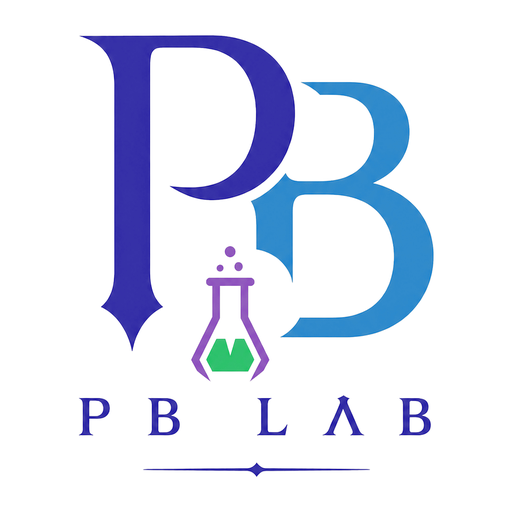
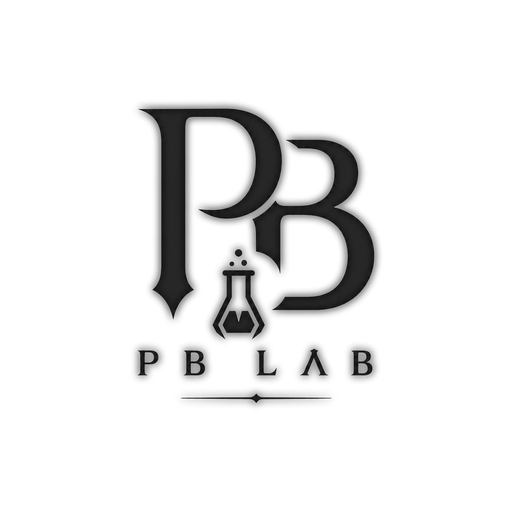
Ajustari design: sigla neagra cu glow, font nou la titlu, selector reparat
- Sigla revine la varianta neagra originala (fara culorile Autonom),
  mai mare, fara fundal, cu o stralucire alba in jurul literelor.
  Favicon-ul regenerat din aceeasi sigla.
- Titlul "CENTRALIZATOR RCA" foloseste acum Space Grotesk, distinct
  de restul textului (Manrope).
- Selectorul de status: fundalul optiunii selectate / hover nu mai e
  aproape invizibil (transparenta prea mare) — acum foloseste culori
  solide, usor de distins.

diff --git a/financiar.html b/financiar.html
@@ -16,7 +16,7 @@
 <script src="https://cdn.jsdelivr.net/npm/@supabase/supabase-js@2/dist/umd/supabase.js"></script>
 <link rel="preconnect" href="https://fonts.googleapis.com">
 <link rel="preconnect" href="https://fonts.gstatic.com" crossorigin>
-<link href="https://fonts.googleapis.com/css2?family=Manrope:wght@500;700;800&display=swap" rel="stylesheet">
+<link href="https://fonts.googleapis.com/css2?family=Manrope:wght@500;700;800&family=Space+Grotesk:wght@600;700&display=swap" rel="stylesheet">
 <style>
   :root {
     --bg: #0f1420;
@@ -47,7 +47,7 @@
     padding: 16px;
     padding-bottom: 60px;
   }
-  h1 { font-size: 20px; margin: 4px 0 2px; }
+  h1 { font-family: "Space Grotesk", "Manrope", sans-serif; font-size: 23px; font-weight: 700; letter-spacing: .01em; margin: 4px 0 2px; }
   .subtitle { color: var(--text-dim); font-size: 13px; margin-bottom: 18px; }
   .header-row { display: flex; justify-content: space-between; align-items: flex-start; gap: 10px; }
   .header-row { margin-bottom: 16px; }
@@ -242,8 +242,8 @@
     color: var(--opt-color); display: flex; align-items: center; gap: 8px; transition: background .12s ease;
   }
   .status-picker-option::before { content: ''; width: 8px; height: 8px; border-radius: 50%; background: var(--opt-color); flex-shrink: 0; }
-  .status-picker-option:hover { background: rgba(255,255,255,0.07); }
-  .status-picker-option.selected { background: rgba(255,255,255,0.09); }
+  .status-picker-option:hover { background: #26314f; }
+  .status-picker-option.selected { background: #2c3a5e; }
   #list.compact .status-picker-trigger { font-size: 10px; padding: 4px 8px; }
   .dte-tag { display: inline-block; background: var(--danger-soft); color: var(--danger); font-size: 10px; font-weight: 700; padding: 2px 7px; border-radius: 999px; margin-left: 6px; vertical-align: middle; }
   .dte-banner { background: var(--danger-soft); border: 1px solid var(--danger); border-radius: 12px; padding: 12px; margin-bottom: 14px; }
@@ -510,7 +510,7 @@
 
 <div class="header-row">
   <div style="display:flex; align-items:center; gap:10px;">
-    <img src="icons/logo.png" alt="PB LAB" style="width:38px; height:38px; object-fit:contain; flex-shrink:0; border-radius:8px;">
+    <img src="icons/logo.png" alt="PB LAB" style="width:60px; height:60px; object-fit:contain; flex-shrink:0;">
     <div>
       <h1>CENTRALIZATOR RCA</h1>
     </div>

diff --git a/index.html b/index.html
@@ -16,7 +16,7 @@
 <script src="https://cdn.jsdelivr.net/npm/@supabase/supabase-js@2/dist/umd/supabase.js"></script>
 <link rel="preconnect" href="https://fonts.googleapis.com">
 <link rel="preconnect" href="https://fonts.gstatic.com" crossorigin>
-<link href="https://fonts.googleapis.com/css2?family=Manrope:wght@500;700;800&display=swap" rel="stylesheet">
+<link href="https://fonts.googleapis.com/css2?family=Manrope:wght@500;700;800&family=Space+Grotesk:wght@600;700&display=swap" rel="stylesheet">
 <style>
   :root {
     --bg: #0f1420;
@@ -47,7 +47,7 @@
     padding: 16px;
     padding-bottom: 60px;
   }
-  h1 { font-size: 20px; margin: 4px 0 2px; }
+  h1 { font-family: "Space Grotesk", "Manrope", sans-serif; font-size: 23px; font-weight: 700; letter-spacing: .01em; margin: 4px 0 2px; }
   .subtitle { color: var(--text-dim); font-size: 13px; margin-bottom: 18px; }
   .header-row { display: flex; justify-content: space-between; align-items: flex-start; gap: 10px; }
   .header-row { margin-bottom: 16px; }
@@ -242,8 +242,8 @@
     color: var(--opt-color); display: flex; align-items: center; gap: 8px; transition: background .12s ease;
   }
   .status-picker-option::before { content: ''; width: 8px; height: 8px; border-radius: 50%; background: var(--opt-color); flex-shrink: 0; }
-  .status-picker-option:hover { background: rgba(255,255,255,0.07); }
-  .status-picker-option.selected { background: rgba(255,255,255,0.09); }
+  .status-picker-option:hover { background: #26314f; }
+  .status-picker-option.selected { background: #2c3a5e; }
   #list.compact .status-picker-trigger { font-size: 10px; padding: 4px 8px; }
   .dte-tag { display: inline-block; background: var(--danger-soft); color: var(--danger); font-size: 10px; font-weight: 700; padding: 2px 7px; border-radius: 999px; margin-left: 6px; vertical-align: middle; }
   .dte-banner { background: var(--danger-soft); border: 1px solid var(--danger); border-radius: 12px; padding: 12px; margin-bottom: 14px; }
@@ -510,7 +510,7 @@
 
 <div class="header-row">
   <div style="display:flex; align-items:center; gap:10px;">
-    <img src="icons/logo.png" alt="PB LAB" style="width:38px; height:38px; object-fit:contain; flex-shrink:0; border-radius:8px;">
+    <img src="icons/logo.png" alt="PB LAB" style="width:60px; height:60px; object-fit:contain; flex-shrink:0;">
     <div>
       <h1>CENTRALIZATOR RCA</h1>
     </div>
